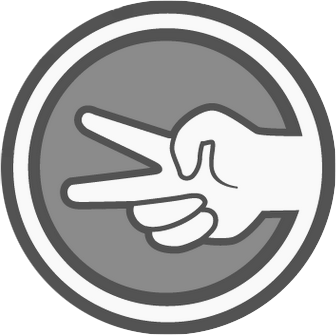
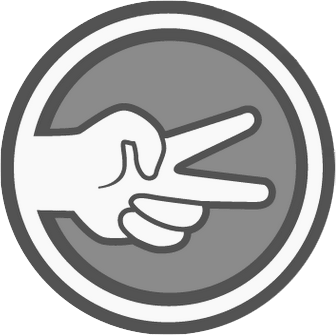
Cool changes

diff --git a/components/components/ResultBoard/ResultBoard.scss b/components/components/ResultBoard/ResultBoard.scss
@@ -33,6 +33,10 @@
                     z-index: 1;
                     width: 100%;
                 }
+                &.cpu img {
+                    -webkit-transform: scaleX(-1);
+                    transform: scaleX(-1);
+                }
                 p {
                     margin: 0;
                     padding-top: 8px;

diff --git a/components/components/ResultBoard/ResultBoard.js b/components/components/ResultBoard/ResultBoard.js
@@ -22,7 +22,7 @@ const ResultBoard = ({ userMove, cpuMove, result, onClick }) => (
 
 
 const Option = ({ player, option }) => (
-    <div className="option-container">
+    <div className={`option-container ${player}`}>
         <img src={`./assets/images/mini-${option}.png`} />
         <p>{player}</p>
     </div>

diff --git a/components/components/Timeline/components/Play/Play.js b/components/components/Timeline/components/Play/Play.js
@@ -15,7 +15,7 @@ const Play = ({ result, userMove, cpuMove }) =>  (
 
 
 const Option = ({ player, option }) => (
-    <div className="move">
+    <div className={`move ${player}`} >
         <img src={`../../../../../assets/images/mini-${option.toLowerCase()}.png`} />
         <p>{player}</p>
     </div>

diff --git a/components/components/Timeline/components/Play/Play.scss b/components/components/Timeline/components/Play/Play.scss
@@ -39,6 +39,10 @@
             img {
                 width: 55%;
             }
+            &.cpu img {
+                -webkit-transform: scaleX(-1);
+                transform: scaleX(-1);
+            }
             p {
                 margin: 0;
                 padding-top: 8px;
